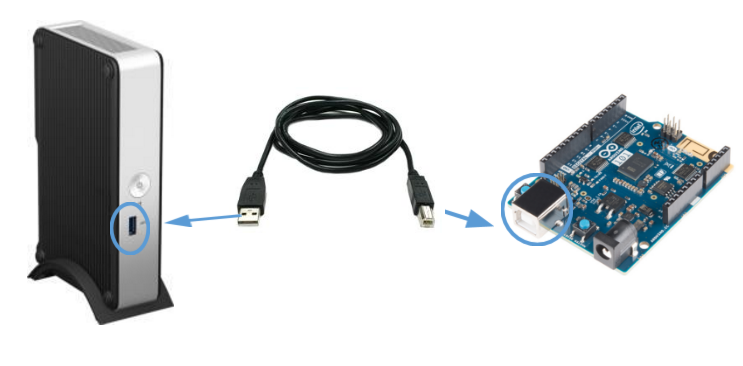
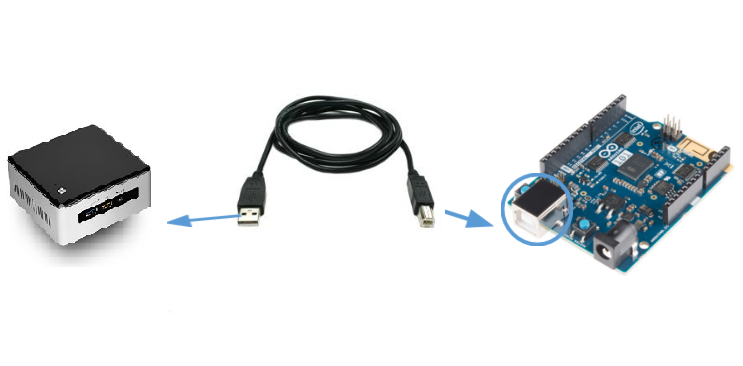
initial changes to ubuntu ciot lab
Modify the first 3 labs for changes specific
to Ubuntu on a core i7 NUC

Changed region(s): [[0.0, 0.0601, 0.2476, 0.9016]]

diff --git a/app/views/labs/sensors-javascript/index.html b/app/views/labs/sensors-javascript/index.html
@@ -125,17 +125,6 @@
                         If you clicked the <b>later</b> on the sign in page then you will not see this step.</div>
                 </div>
 
-                <div content-block name="disable-node-red" message="Disable Node-Red service">
-                  <p><b>  Disable Node-Red service running on your Gateway</b></p>
-                  <ul>
-                    <li><p>In previous lab we were executing few Node-Red flows which made use of system resources like (sensors, GPIOs, I2C etc.). Since in this lab we will be using the same resources to avoid any contention we will disable the node-red service during this exercise</li></p>
-                    <li><p>Open a terminal to your Gateway and give following command:</li></p>
-                    <pre><code>systemctl stop node-red-experience</pre></code>
-                    <li><p>Check that service has stopped</li></p>
-                    <pre><code>systemctl status node-red-experience</pre></code>
-                  </ul>
-                </div>
-
                 <div content-block name="click-on-templates" message="Click on Templates" image-link="./views/labs/sensors-javascript/images/image_2.png">
                     <h2 class="labHidden">Click on Templates</h2>
                     <p><img class="labHidden" alt="" data-fid="503894" src="https://software.intel.com/sites/default/files/managed/9b/da/image_2.png" typeof="foaf:Image"></p>
@@ -287,7 +276,7 @@
                             <p>Install the Grove Base Shield onto the Arduino* 101 Arduino expansion board.</p>
                         </li>
                         <li>
-                            <p>Connect <strong>Grove Temperature Sensor</strong> to analog pin <strong>A1</strong> of the Grove Base Shield.</p>
+                            <p>Connect <strong>Grove Temperature Sensor</strong> to analog pin <strong>A0</strong> of the Grove Base Shield.</p>
                         </li>
                         <li>
                             <p>Connect <strong>Grove LCD</strong> display to one of the <strong>I2C</strong> pins.</p>
@@ -331,7 +320,11 @@
                     <p>Update <span class="icon file">main.js</span> to read the temperature sensor on program start up and log it to the console.</p>
 
                     <ol>
-
+                        <li>
+                            <p>Add below lines to include the FIRMATA subplatform for MRAA. The Arduino 101* is accessed via ttyACM0 port</p>
+                            <p><code>var mraa = require("mraa");</code></p>
+                            <p><code>mraa.addSubplatform(mraa.GENERIC_FIRMATA, "/dev/ttyACM0");</code></p>
+                        </li>
                         <li>
                             <p>Create an offset var of 512. This offset is required since we use Firmata to connect Arduino* 101 with NUC gateway which needs this conversion for all the I/O pins</p>
                             <p><code>var OFFSET = 512;</code></p>
@@ -355,7 +348,10 @@
                         <li>
                             <p>The final code should look like this:</p>
 
-                            <ui-codemirror ui-codemirror-opts="editorOptions"><pre class="brush:jscript;">var OFFSET = 512;
+                            <ui-codemirror ui-codemirror-opts="editorOptions"><pre class="brush:jscript;">var mraa = require("mraa") ;
+mraa.addSubplatform(mraa.GENERIC_FIRMATA, "/dev/ttyACM0");
+
+var OFFSET = 512;
 var groveSensor = require('jsupm_grove');
 var temp = new groveSensor.GroveTemp(1+OFFSET, 0.66);
 
@@ -393,7 +389,7 @@ monitor();</li>
 
                         <li>
                             <p>Similar to using <code>require('jsupm_grove')</code> to include the JavaScript UPM library for the basic Grove components, <strong>include the UPM library for I2C-type LCDs</strong>:</p>
-                            <p><code>var LCD = require('jsupm_jhd1313m1');</code></p>
+                            <p><code>var LCD = require('jsupm_i2clcd');</code></p>
                         </li>
 
                         <li>
@@ -433,9 +429,12 @@ monitor();</li>
 
                         <li>
                             <p>Below is an example of the final solution.</p>
-                            <ui-codemirror ui-codemirror-opts="editorOptions"><pre class="brush:jscript;">// Include the JavaScript UPM libraries
+                            <ui-codemirror ui-codemirror-opts="editorOptions"><pre class="brush:jscript;">var mraa = require("mraa");
+mraa.addSubplatform(mraa.GENERIC_FIRMATA, "/dev/ttyACM0");
+
+// Include the JavaScript UPM libraries
 var groveSensor = require('jsupm_grove');
-var LCD = require("jsupm_jhd1313m1"); // Create a new instance of a Grove RGB LCD screen
+var LCD = require("jsupm_i2clcd"); // Create a new instance of a Grove RGB LCD screen
 
 // The Offset is necessary for Firmata
 var OFFSET = 512;

diff --git a/app/views/labs/setup-development-environment/index.html b/app/views/labs/setup-development-environment/index.html
@@ -89,10 +89,10 @@
                     <p class="alert alert-warning">Some sensors and actuators, such as the LCD screen, will not work properly unless the base shield is set to 5V.</p>
                 </div>
 
-                <div content-block name="intro-press" message="Connect LCD and Rotatry Angle to Arduino* 101" image-link="./views/labs/setup-development-environment/images/5.png">
-                    <h2 class="labHidden">Connect LCD and Rotatry Angle to Arduino* 101</h2>
+                <div content-block name="intro-press" message="Connect LCD to Arduino* 101" image-link="./views/labs/setup-development-environment/images/5.png">
+                    <h2 class="labHidden">Connect LCD to Arduino* 101</h2>
                     <img class="labHidden" src="./views/labs/setup-development-environment/images/5.png"></img>
-                    <p>Connect the LCD screen to any of the I2C pins on base shield. Then connect the rotary angle sensor to pin A0 of base shield.</p>
+                    <p>Connect the LCD screen to any of the I2C pins on base shield.</p>
                 </div>
 
                 <div content-block name="intro-press" message="Now connect Arduino* 101 with Intel IoT Gateway via USB A-B cable" image-link="./views/labs/setup-development-environment/images/6.png">
@@ -112,20 +112,7 @@
                     <p>Press power button to start gateway. After around 2 minutes, it will display the IP address of Gateway on the LCD. Note Down the IP address.</p>
                     <p class="alert alert-warning">If the IP address does not display, this is an indication that the Gateway was unable to connect to the network. Please raise your hand and contact an Intel developer about the problem.</p>
                 </div>
-
-                <div content-block name="intro-press" message="Access IoT Developer Hub." image-link="./views/labs/setup-development-environment/images/9.png">
-                    <h2 class="labHidden">Access IoT Developer Hub.</h2>
-                    <img class="labHidden" src="./views/labs/setup-development-environment/images/9.png"></img>
-                    <ol>
-                        <li>Open your browser and enter the IP address noted down in last step to access IoT Developer Hub.</li>
-                        <li>Login to the Intel® IoT Gateway Developer Hub using root for both the username and the password.</li>
-                        <li>Once you login you should see the home page as shown in the figure. A graphical representation of the Rotary sensor can be seen on the home page. Move the rotary sensor to see change in values</li>
-                        <li>Use the Intel® IoT Gateway Developer Hub to explore and extend the basic capabilities of the Gateway.</li>
-                    </ol>
-                    <p class="alert alert-warning">Please <b>do not</b> install any updates for our labs as it might result in an unkown behavior</p>
-                </div>
             </div>
-
 
 
             <!-- SSH to the Intel IoT Gateway for Windows Users -->
@@ -149,7 +136,7 @@
                     <ol>
                         <li>Double-click putty.exe on your computer to launch PuTTY.</li>
                         <li>Enter IP address of the Gateway</li>
-                        <li>You can login with the username root and the password root.</li>
+                        <li>You can login with the username as <strong>root</strong> and the password <strong>root</strong>.</li>
                     </ol>
                     <p class="alert alert-warning">Note that your development computer and your NUC device has to be on the same network with same subnet else it will not connect</p>
                 </div>

diff --git a/app/views/labs/security-tls/index.html b/app/views/labs/security-tls/index.html
@@ -33,6 +33,7 @@
                 <p>Run these commands on the gateway console.</p>
                 <div class="alert alert-warning">
                   <p>It is important to note that while generating these, the <strong>“Common Name”</strong> parameter in step 1 above and step 3 should specify the server address, <strong>“localhost”</strong>. Otherwise it will not authenticate correctly.</p>
+                  <p>Also make sure to use the same passphrase between the first step and the last step of generating server key</p>
                 </div>
                 <pre><code>openssl req -new -x509 -days 365 -extensions v3_ca -keyout ca.key -out ca.crt
 openssl genrsa -out server.key 2048
@@ -54,11 +55,9 @@ mv server.crt server.csr server.key /etc/mosquitto/certs</code></pre>
 
             <div ibox title="Configure Mosquitto to use MQTT over TLS">
               <div content-block message="Configure the MQTT Broker to use TLS" name="telegraf-mqtt-tls">
-                <p>Add the below changes to the <strong>end of the mosquitto.conf file</strong></p>
-                <pre><code>vim /etc/mosquitto/mosquitto.conf</code></pre>
-            <ui-codemirror ui-codemirror-opts="editorOptions" id="topic-configure"># Place your local configuration in /etc/mosquitto/conf.d/
-
-bind_address 127.0.0.1
+                <p>Create a custom configuration file <strong>mosquitto_tls.conf</strong> in conf.d folder of mosquitto as shown below</p>
+                <pre><code>vim /etc/mosquitto/conf.d/mosquitto_tls.conf</code></pre>
+            <ui-codemirror ui-codemirror-opts="editorOptions" id="topic-configure">bind_address 127.0.0.1
 port 8883
 
 cafile /etc/mosquitto/ca_certificates/ca.crt
@@ -67,12 +66,6 @@ keyfile /etc/mosquitto/certs/server.key
 
 tls_version tlsv1</ui-codemirror>
               <br></br>
-              <div class="alert alert-info">
-                <p>To paste text into VIM using your mouse, you may need to use the paste mode.</p>
-                <p>:set mouse=v</p>
-                <p>:set paste</p>
-                <p>Then type "i" to enter insert mode and click the middle mouse button (usually) to paste</p>
-              </div>
               <p>Make sure to stop and start mosquitto service after this change</p>
                 <pre><code>systemctl stop mosquitto</code></pre>
                 <pre><code>systemctl start mosquitto</code></pre>
